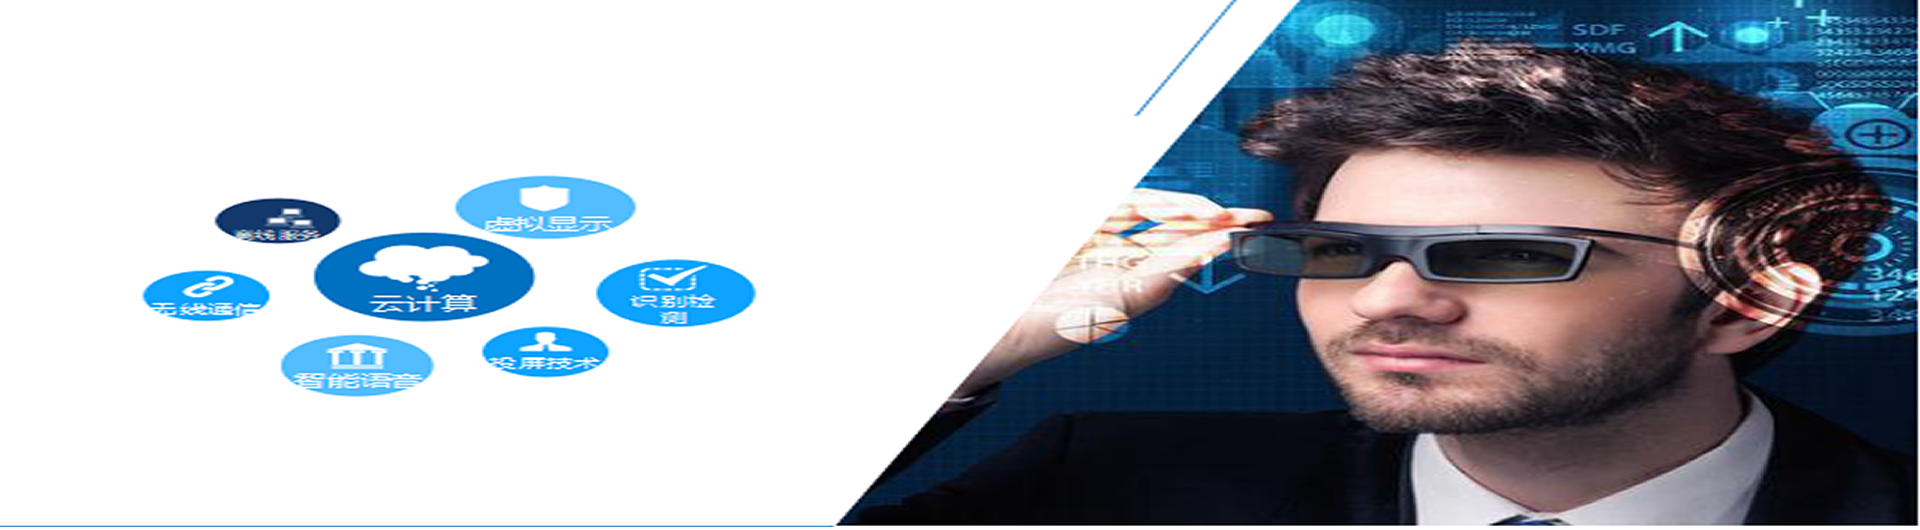
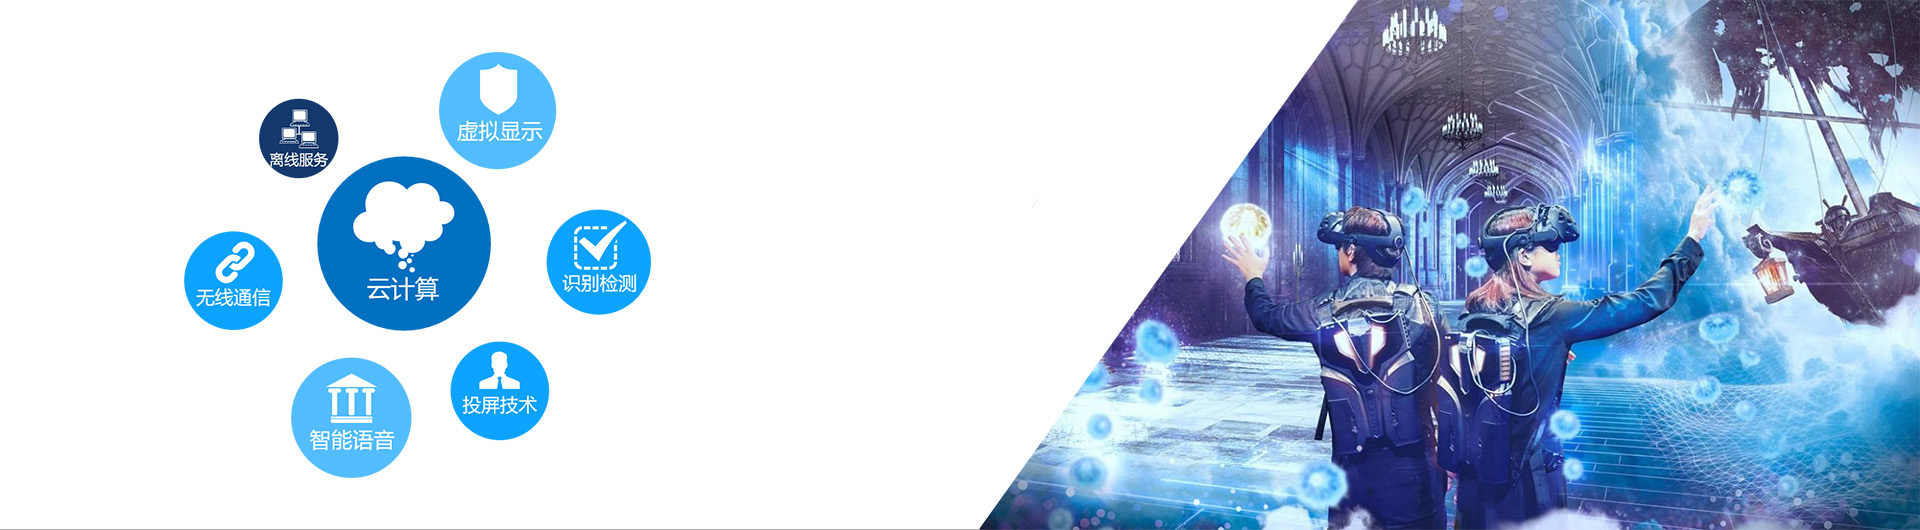
src

diff --git a/home/index.html b/home/index.html
@@ -156,47 +156,6 @@
 		<!--图片轮播-->
 		<div class="swiper-container banner_index swiper-container-horizontal swiper-container-fade">
 			<div class="swiper-wrapper" style="transition-duration: 0ms;">
-				<div class="swiper-slide swiper-slide-prev"
-					style="width: 1903px; opacity: 1; transform: translate3d(0px, 0px, 0px); transition-duration: 0ms;">
-					<a href="#">
-						<div class="banner_inro  visible-a">
-							<img src="./images/banner5_txt.png" alt="">
-						</div>
-						<div class="a-background bannerbg visible-a	"
-							style="background-image: url(./images/banner5_bg.jpg);"></div>
-						<div class="a-background bannerbg visible-b"
-							style="background-image: url(./images/banner5_mobi.jpg);"></div>
-					</a>
-				</div>
-				<!--<div class="swiper-slide">
-					<a href="http://aisummit2019.sensetime.com">
-					<div class="banner_inro  visible-a">
-						<img src="images/banner4_txt.png" alt="">
-					</div>
-					<div class="a-background bannerbg visible-a	" style="background-image: url(./images/banner4_bg.jpg);"></div>
-					<div class="a-background bannerbg visible-b" style="background-image: url(./images/banner4_mobi.jpg);"></div>
-					</a>
-				</div>-->
-				<div class="swiper-slide swiper-slide-active"
-					style="width: 1903px; opacity: 1; transform: translate3d(-1903px, 0px, 0px); transition-duration: 0ms;">
-					<a href="#" target="_blank">
-						<div class="banner_inro">
-							<img src="./images/banner3_txt.png" alt="">
-						</div>
-						<div class="a-background bannerbg visible-a	"
-							style="background-image: url(./images/banner3.jpg);"></div>
-					</a>
-				</div>
-				<div class="swiper-slide ban_video swiper-slide-next"
-					style="width: 1903px; opacity: 0; transform: translate3d(-3806px, 0px, 0px); transition-duration: 0ms;">
-					<div class="banner_inro">
-						<img src="./images/banner_txt1.png">
-					</div>
-					<div class="a-background bannerbg" style="background-image: url(./images/bannerbg1.jpg);"></div>
-					<video src="video/bannerbg1.mp4" autoplay="autoplay" loop="loop" muted="" class="vv"
-						id="v0"></video>
-				</div>
-
 				<div class="swiper-slide ban_video"
 					style="width: 1903px; opacity: 0; transform: translate3d(-5709px, 0px, 0px); transition-duration: 0ms;">
 					<div class="banner_inro">
@@ -209,12 +168,12 @@
 				</div>
 
 			</div>
-			<div class="swiper-pagination swiper-pagination-clickable swiper-pagination-bullets" style="bottom:22px;">
+			<!-- <div class="swiper-pagination swiper-pagination-clickable swiper-pagination-bullets" style="bottom:22px;">
 				<span class="swiper-pagination-bullet"></span><span
 					class="swiper-pagination-bullet swiper-pagination-bullet-active"></span><span
-					class="swiper-pagination-bullet"></span><span class="swiper-pagination-bullet"></span></div>
-			<div class="swiper-button-prev"></div>
-			<div class="swiper-button-next"></div>
+					class="swiper-pagination-bullet"></span><span class="swiper-pagination-bullet"></span></div> -->
+			<!-- <div class="swiper-button-prev"></div>
+			<div class="swiper-button-next"></div> -->
 		</div>
 	</section>
 	<script>
@@ -873,7 +832,7 @@
 				<!--			<a href="/en" class="visible-xs-inline">ENGLISH</a>-->
 			</div>
 			<div class="footer-4">
-				<div class="footer-logo"><img width="104px" height="34px" src="./images/footer-logo.png"></div>
+				<div class="footer-logo"><img width="104px" height="34px" src="../static/images/footer-logo.png"></div>
 				<a class="footer-6" id="wxbox2">
 					<img src="../static/images/footer-wx.png">
 					<div class="wxbox" style="display:none;">
